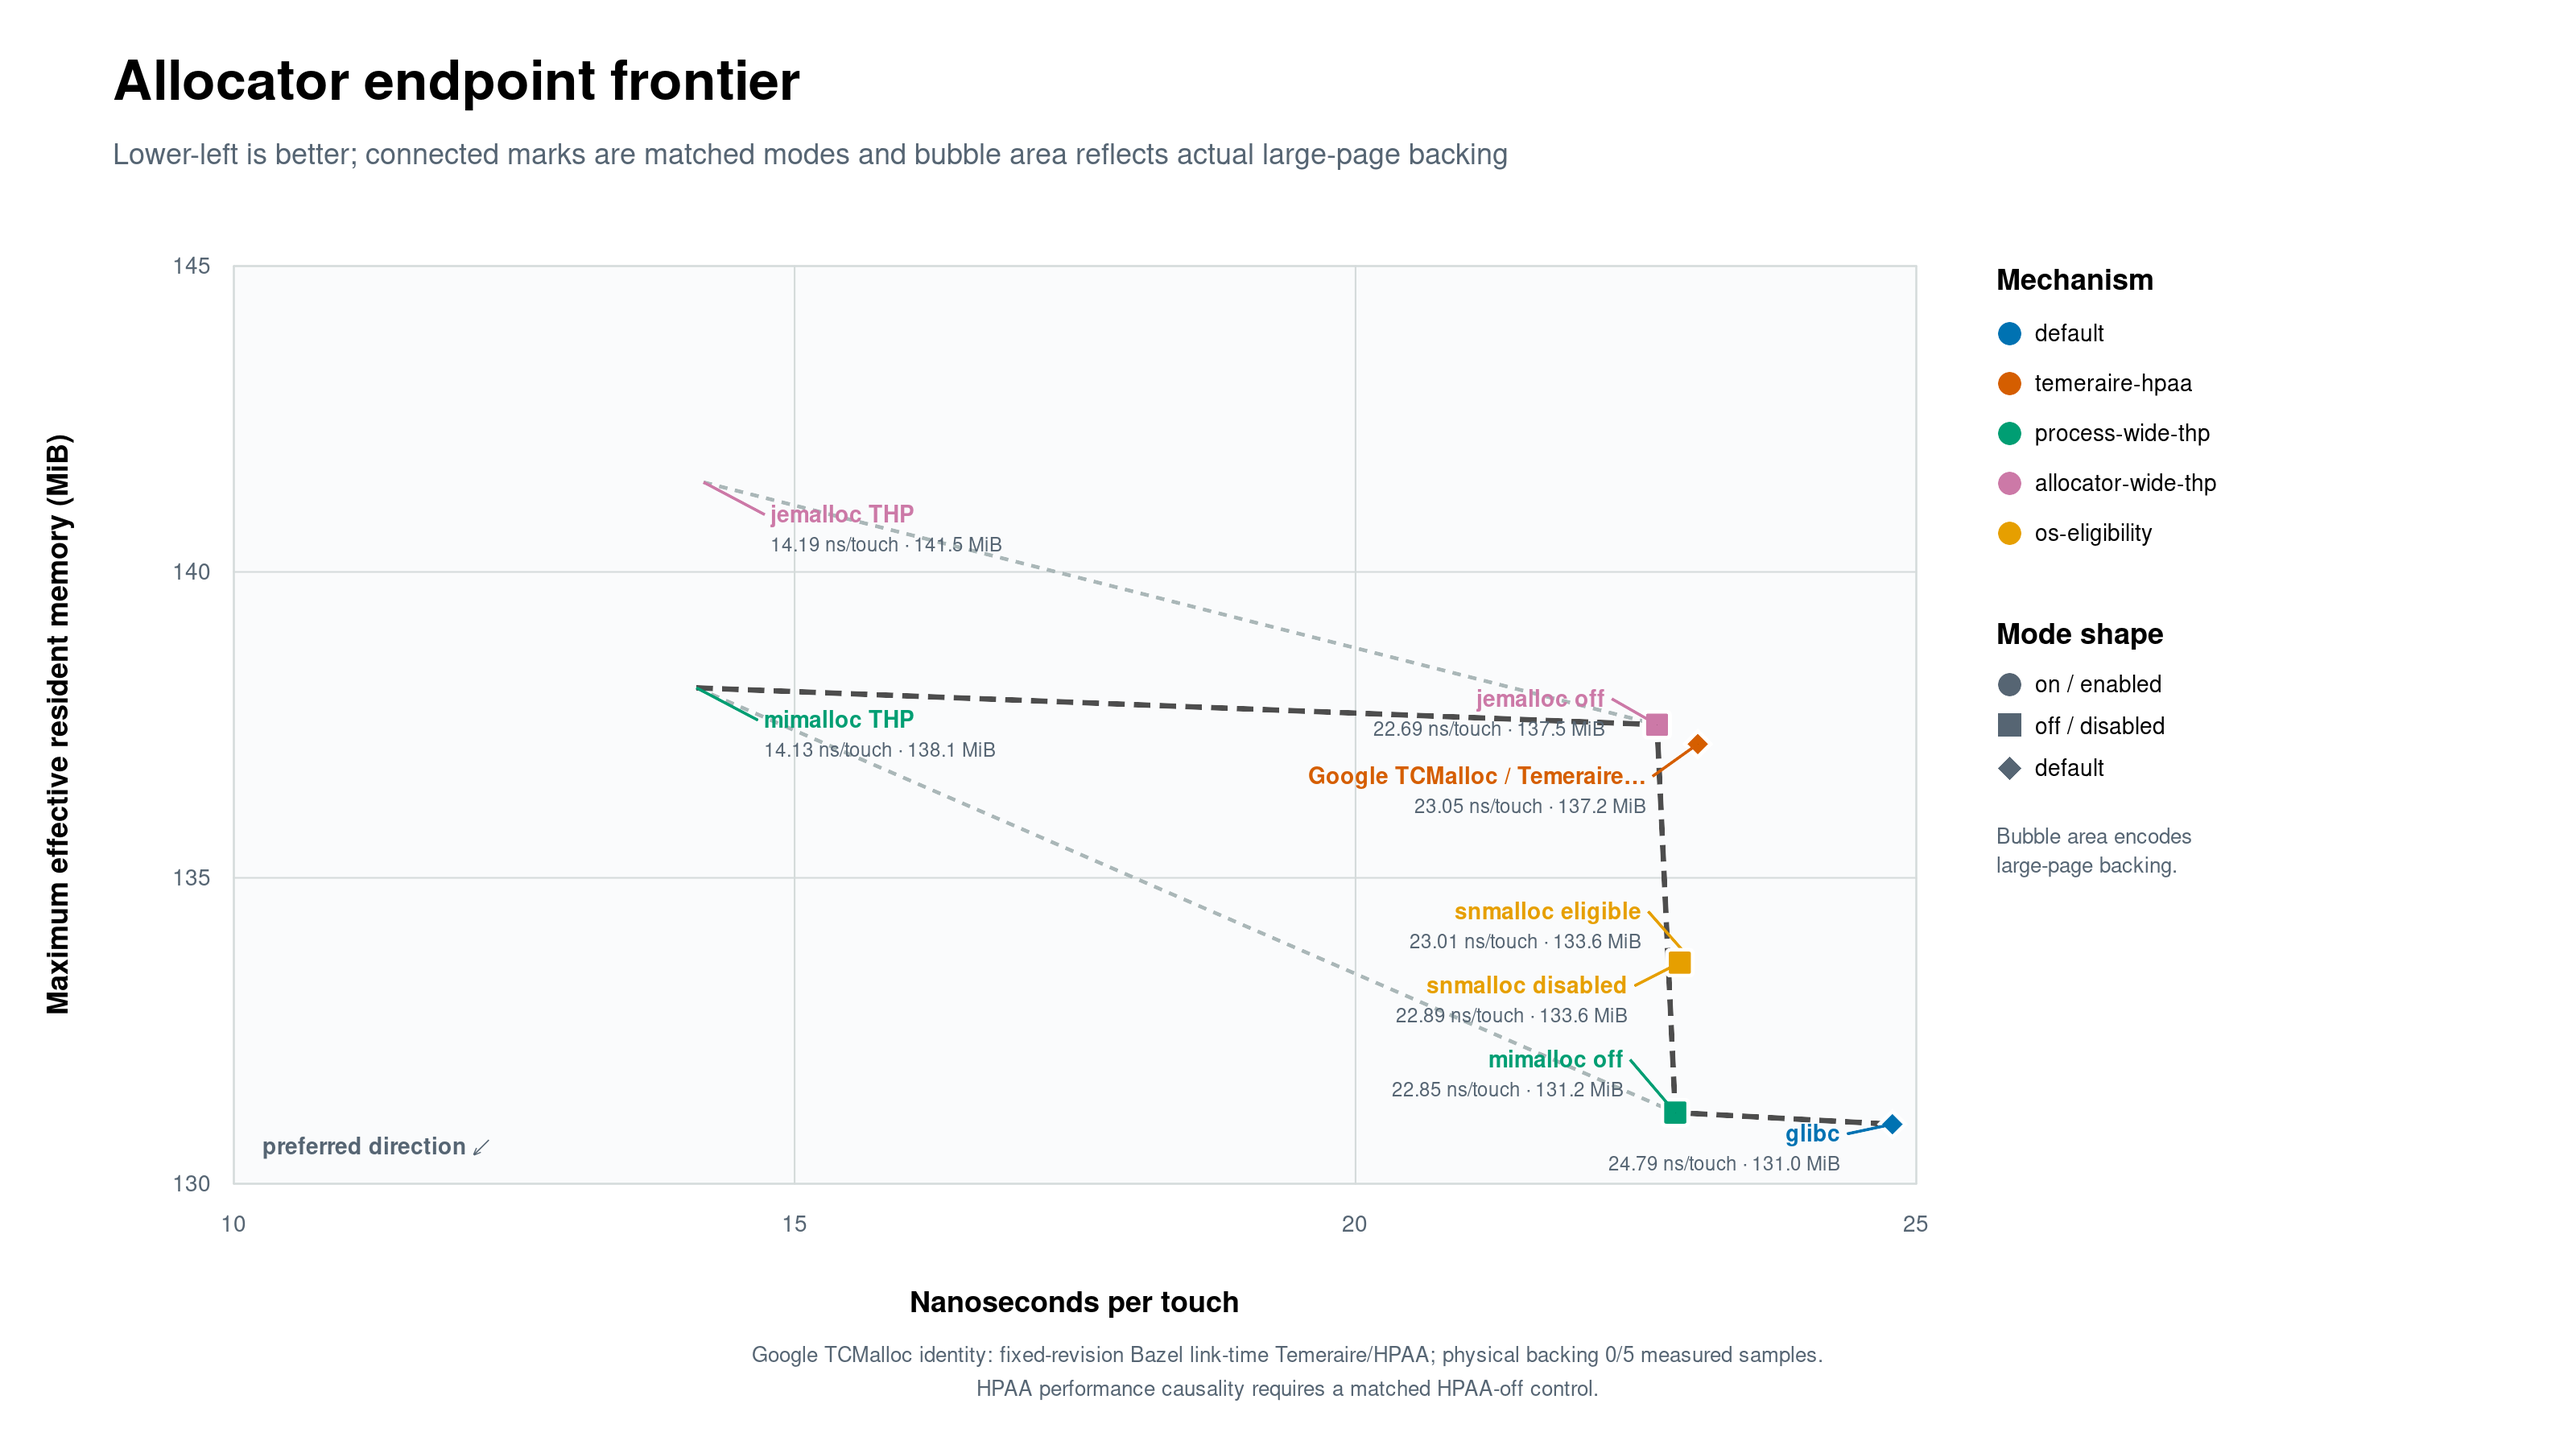
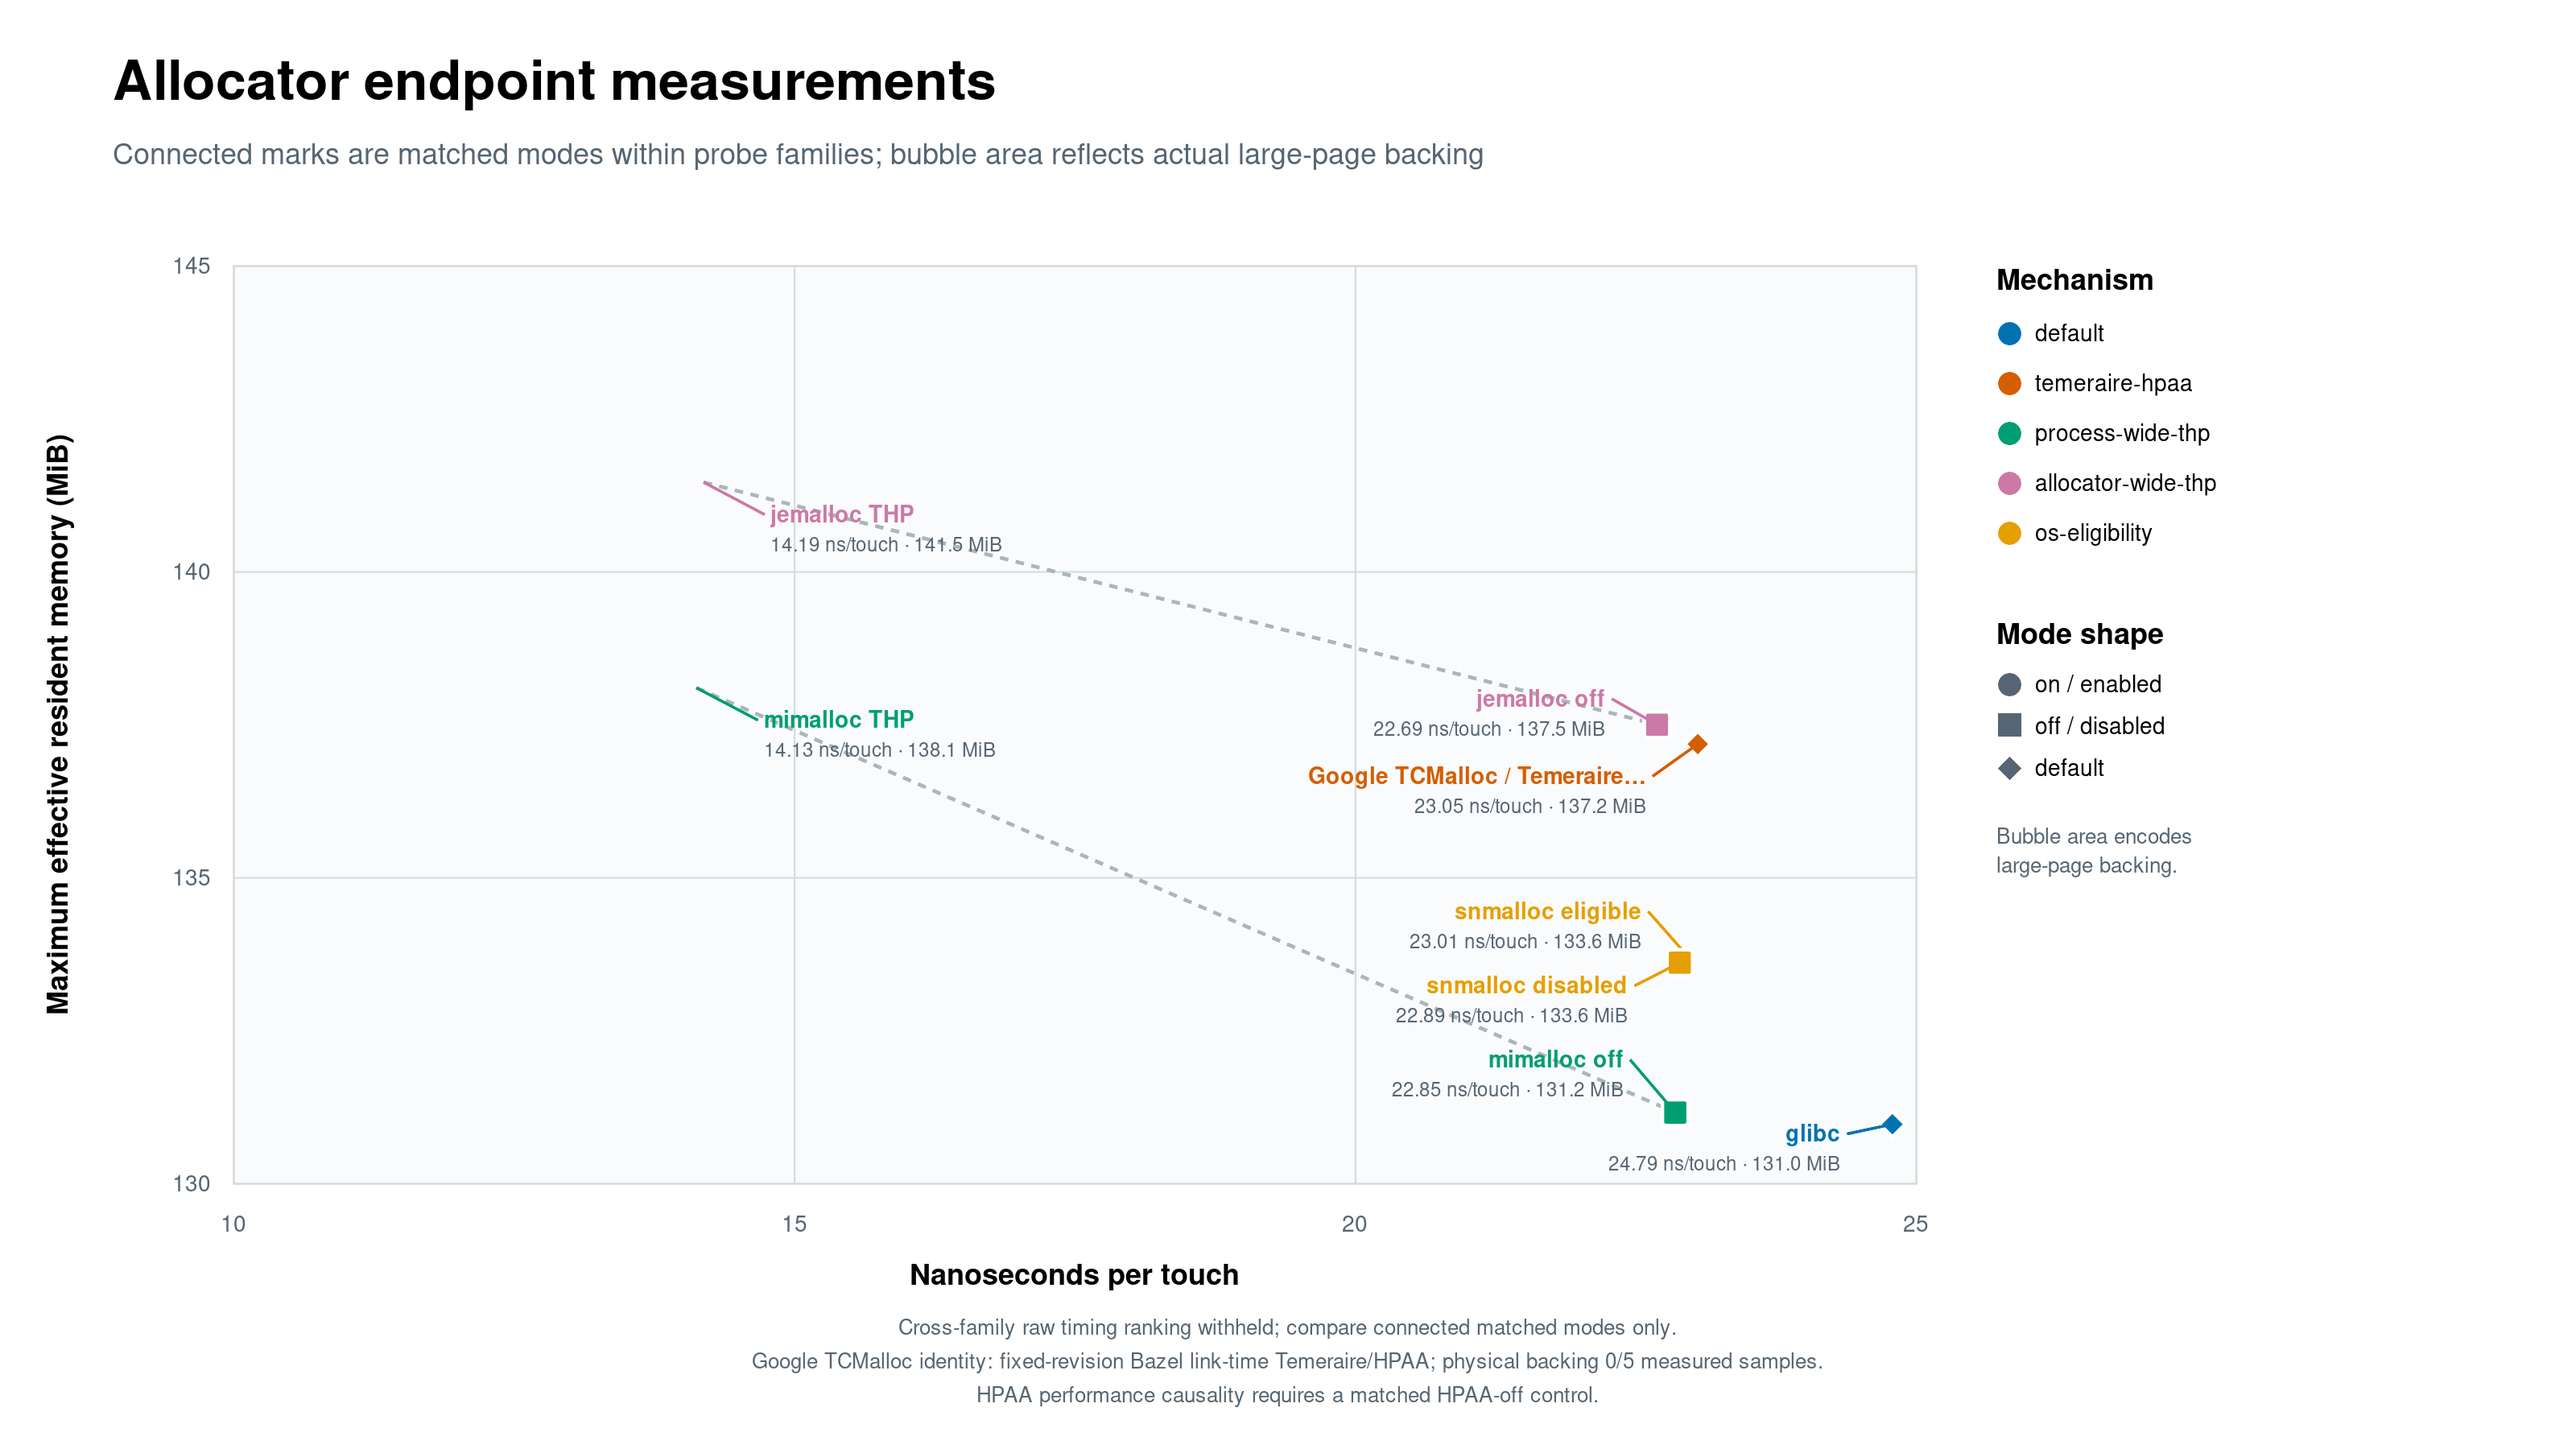
Keep presentation artifacts inside the measured claim boundary
The endpoint renderer now treats cross-family ranking as an explicit fail-closed evidence permission. Campaigns that withhold that permission show only matched-mode connectors and a visible boundary note, while the generated slide assets and checksums stay synchronized.\n\nConstraint: The authenticated summary forbids cross-family raw timing ranking\nRejected: Draw a global Pareto frontier over allocator families | implies a comparison the evidence contract excludes\nConfidence: high\nScope-risk: narrow\nDirective: Any future cross-family ranking requires an explicit true evidence permission and compatible workload semantics\nTested: 6 cross-allocator chart renderer tests\nTested: figure SHA256SUMS and visual-verdict score 94/100

Changed region(s): [[0.2812, 0.8711, 0.7188, 0.9644], [0.0312, 0.0311, 0.5938, 0.1244], [0.0938, 0.7778, 0.1875, 0.8089]]

diff --git a/evaluation/scripts/render_cross_allocator_large_page_charts.py b/evaluation/scripts/render_cross_allocator_large_page_charts.py
@@ -194,6 +194,10 @@ def _summary_evidence(
     evidence_contract = _require_mapping(
         root.get("evidence_contract"), "summary.evidence_contract"
     )
+    cross_family_ranking_allowed = _require_bool(
+        evidence_contract.get("cross_family_raw_timing_ranking_allowed"),
+        "summary.evidence_contract.cross_family_raw_timing_ranking_allowed",
+    )
 
     google_note = None
     google_boundary_note = None
@@ -342,6 +346,12 @@ def _summary_evidence(
 
     return {
         "repeat_note": f"{repeats} measured blocks per arm",
+        "cross_family_raw_timing_ranking_allowed": cross_family_ranking_allowed,
+        "cross_family_ranking_note": (
+            None
+            if cross_family_ranking_allowed
+            else "Cross-family raw timing ranking withheld; compare connected matched modes only."
+        ),
         "google_note": google_note,
         "google_boundary_note": google_boundary_note,
         "historical_note": historical_note,
@@ -713,8 +723,15 @@ def _point_shape(
 def render_endpoint_frontier(
     rows: Sequence[Mapping[str, Any]], evidence: Mapping[str, Any]
 ) -> str:
-    title = "Allocator endpoint frontier"
-    subtitle = "Lower-left is better; connected marks are matched modes and bubble area reflects actual large-page backing"
+    cross_family_ranking_allowed = bool(
+        evidence["cross_family_raw_timing_ranking_allowed"]
+    )
+    if cross_family_ranking_allowed:
+        title = "Allocator endpoint frontier"
+        subtitle = "Lower-left is better; connected marks are matched modes and bubble area reflects actual large-page backing"
+    else:
+        title = "Allocator endpoint measurements"
+        subtitle = "Connected marks are matched modes within probe families; bubble area reflects actual large-page backing"
     body = _title_block(title, subtitle)
     plot_left, plot_right = 145.0, 1190.0
     plot_top, plot_bottom = 165.0, 735.0
@@ -747,11 +764,14 @@ def render_endpoint_frontier(
         )
     body.extend(
         [
-            f'    <text x="{(plot_left + plot_right) / 2:.1f}" y="815" font-size="18" font-weight="600" text-anchor="middle">Nanoseconds per touch</text>',
+            f'    <text x="{(plot_left + plot_right) / 2:.1f}" y="798" font-size="18" font-weight="600" text-anchor="middle">Nanoseconds per touch</text>',
             f'    <text x="0" y="0" font-size="18" font-weight="600" text-anchor="middle" transform="translate(42 {(plot_top + plot_bottom) / 2:.1f}) rotate(-90)">Maximum effective resident memory (MiB)</text>',
-            f'    <text x="{plot_left + 18:.1f}" y="{plot_bottom - 18:.1f}" font-size="14" font-weight="700" fill="{MUTED}">preferred direction ↙</text>',
         ]
     )
+    if cross_family_ranking_allowed:
+        body.append(
+            f'    <text x="{plot_left + 18:.1f}" y="{plot_bottom - 18:.1f}" font-size="14" font-weight="700" fill="{MUTED}">preferred direction ↙</text>'
+        )
 
     pair_groups: dict[str, list[Mapping[str, Any]]] = {}
     for row in rows:
@@ -769,7 +789,7 @@ def render_endpoint_frontier(
             f'    <polyline points="{points}" fill="none" stroke="#AAB7B8" stroke-width="2" stroke-dasharray="5 5"><title>Matched pair: {_escape(pair)}</title></polyline>'
         )
 
-    frontier = _pareto_frontier(rows)
+    frontier = _pareto_frontier(rows) if cross_family_ranking_allowed else []
     if len(frontier) >= 2:
         frontier_points = " ".join(
             f'{_scale(float(row["ns_per_touch"]), x_low, x_high, plot_left, plot_right):.2f},'
@@ -893,9 +913,12 @@ def render_endpoint_frontier(
             "  </g>",
         ]
     )
-    body.extend(
-        _footer_lines(_chart_evidence_notes(rows, evidence), start_y=846.0)
-    )
+    footer = []
+    ranking_note = evidence.get("cross_family_ranking_note")
+    if isinstance(ranking_note, str) and ranking_note:
+        footer.append(ranking_note)
+    footer.extend(_chart_evidence_notes(rows, evidence))
+    body.extend(_footer_lines(footer, start_y=829.0))
     return _svg_document(title, subtitle, body)
 
 

diff --git a/evaluation/scripts/test_render_cross_allocator_large_page_charts.py b/evaluation/scripts/test_render_cross_allocator_large_page_charts.py
@@ -46,6 +46,7 @@ def valid_summary() -> dict[str, object]:
             ],
         },
         "evidence_contract": {
+            "cross_family_raw_timing_ranking_allowed": False,
             "google_tcmalloc_identity": (
                 "fixed-revision Bazel link-time Temeraire/HPAA"
             ),
@@ -201,7 +202,8 @@ class CrossAllocatorLargePageChartTests(unittest.TestCase):
             self.assertIn("4.20 ns/touch · 128.0 MiB", endpoint)
             self.assertIn("96.0 MiB large-page backing", endpoint)
             self.assertIn("0.0 MiB large-page backing", endpoint)
-            self.assertIn('id="pareto-frontier"', endpoint)
+            self.assertNotIn('id="pareto-frontier"', endpoint)
+            self.assertIn("Cross-family raw timing ranking withheld", endpoint)
             self.assertIn("Google TCMalloc / Temeraire HPAA", endpoint)
             self.assertIn("physical backing 5/7 measured samples", endpoint)
             self.assertIn("matched HPAA-off control", endpoint)
@@ -217,6 +219,34 @@ class CrossAllocatorLargePageChartTests(unittest.TestCase):
             self.assertIn("Google TCMalloc / Temeraire HPAA", backing)
             self.assertIn("physical backing 5/7 measured samples", backing)
             self.assertIn("matched HPAA-off control", backing)
+
+    def test_pareto_frontier_requires_cross_family_ranking_permission(self) -> None:
+        with tempfile.TemporaryDirectory() as temporary:
+            root = pathlib.Path(temporary)
+            document = valid_summary()
+            summary_path = root / "summary.json"
+            summary_path.write_text(json.dumps(document), encoding="utf-8")
+            output_dir = root / "charts"
+
+            result = run_renderer(summary_path, output_dir)
+            self.assertEqual(result.returncode, 0, result.stderr)
+            endpoint = (output_dir / "endpoint-frontier.svg").read_text(
+                encoding="utf-8"
+            )
+            self.assertNotIn('id="pareto-frontier"', endpoint)
+            self.assertNotIn("<title>Pareto frontier</title>", endpoint)
+            self.assertIn("Cross-family raw timing ranking withheld", endpoint)
+
+            document["evidence_contract"][  # type: ignore[index]
+                "cross_family_raw_timing_ranking_allowed"
+            ] = True
+            summary_path.write_text(json.dumps(document), encoding="utf-8")
+            result = run_renderer(summary_path, output_dir)
+            self.assertEqual(result.returncode, 0, result.stderr)
+            endpoint = (output_dir / "endpoint-frontier.svg").read_text(
+                encoding="utf-8"
+            )
+            self.assertIn('id="pareto-frontier"', endpoint)
 
     def test_gperftools_legacy_is_visible_only_as_historical_evidence(self) -> None:
         with tempfile.TemporaryDirectory() as temporary:
@@ -348,6 +378,12 @@ class CrossAllocatorLargePageChartTests(unittest.TestCase):
             "max_effective_resident_mib"
         ] = -1.0
         invalid_documents.append(negative_endpoint)
+
+        missing_ranking_boundary = valid_summary()
+        del missing_ranking_boundary["evidence_contract"][  # type: ignore[index]
+            "cross_family_raw_timing_ranking_allowed"
+        ]
+        invalid_documents.append(missing_ranking_boundary)
 
         for index, document in enumerate(invalid_documents):
             with self.subTest(index=index), tempfile.TemporaryDirectory() as temporary:

diff --git a/docs/figures/cross-allocator-modern-tcmalloc-20260715/README.md b/docs/figures/cross-allocator-modern-tcmalloc-20260715/README.md
@@ -4,6 +4,6 @@ Slide-ready PNG and editable SVG figures generated from `docs/evidence/cross-all
 
 - `incremental-effect`: matched on/off performance and resident-memory effects.
 - `actual-backing`: observed physical large-page backing by endpoint.
-- `endpoint-frontier`: endpoint timing and effective resident memory, with mechanism boundaries in the caption.
+- `endpoint-frontier`: endpoint timing and effective resident memory with matched-mode connectors; cross-family raw timing ranking is withheld.
 
 The Google TCMalloc endpoint is identity-verified at the pinned commit. Its measured backing is zero, so the figures exclude a Temeraire/HPAA performance-effect claim.

diff --git a/docs/compiler-heap-lifetime-inference.md b/docs/compiler-heap-lifetime-inference.md
@@ -266,7 +266,7 @@ timing ranks remain outside the evidence contract. Presentation-ready figures:
 - actual physical backing
   ([SVG](figures/cross-allocator-modern-tcmalloc-20260715/actual-backing.svg),
   [PNG](figures/cross-allocator-modern-tcmalloc-20260715/actual-backing.png));
-- endpoint frontier
+- endpoint measurements with cross-family raw timing ranking withheld
   ([SVG](figures/cross-allocator-modern-tcmalloc-20260715/endpoint-frontier.svg),
   [PNG](figures/cross-allocator-modern-tcmalloc-20260715/endpoint-frontier.png)).
 
